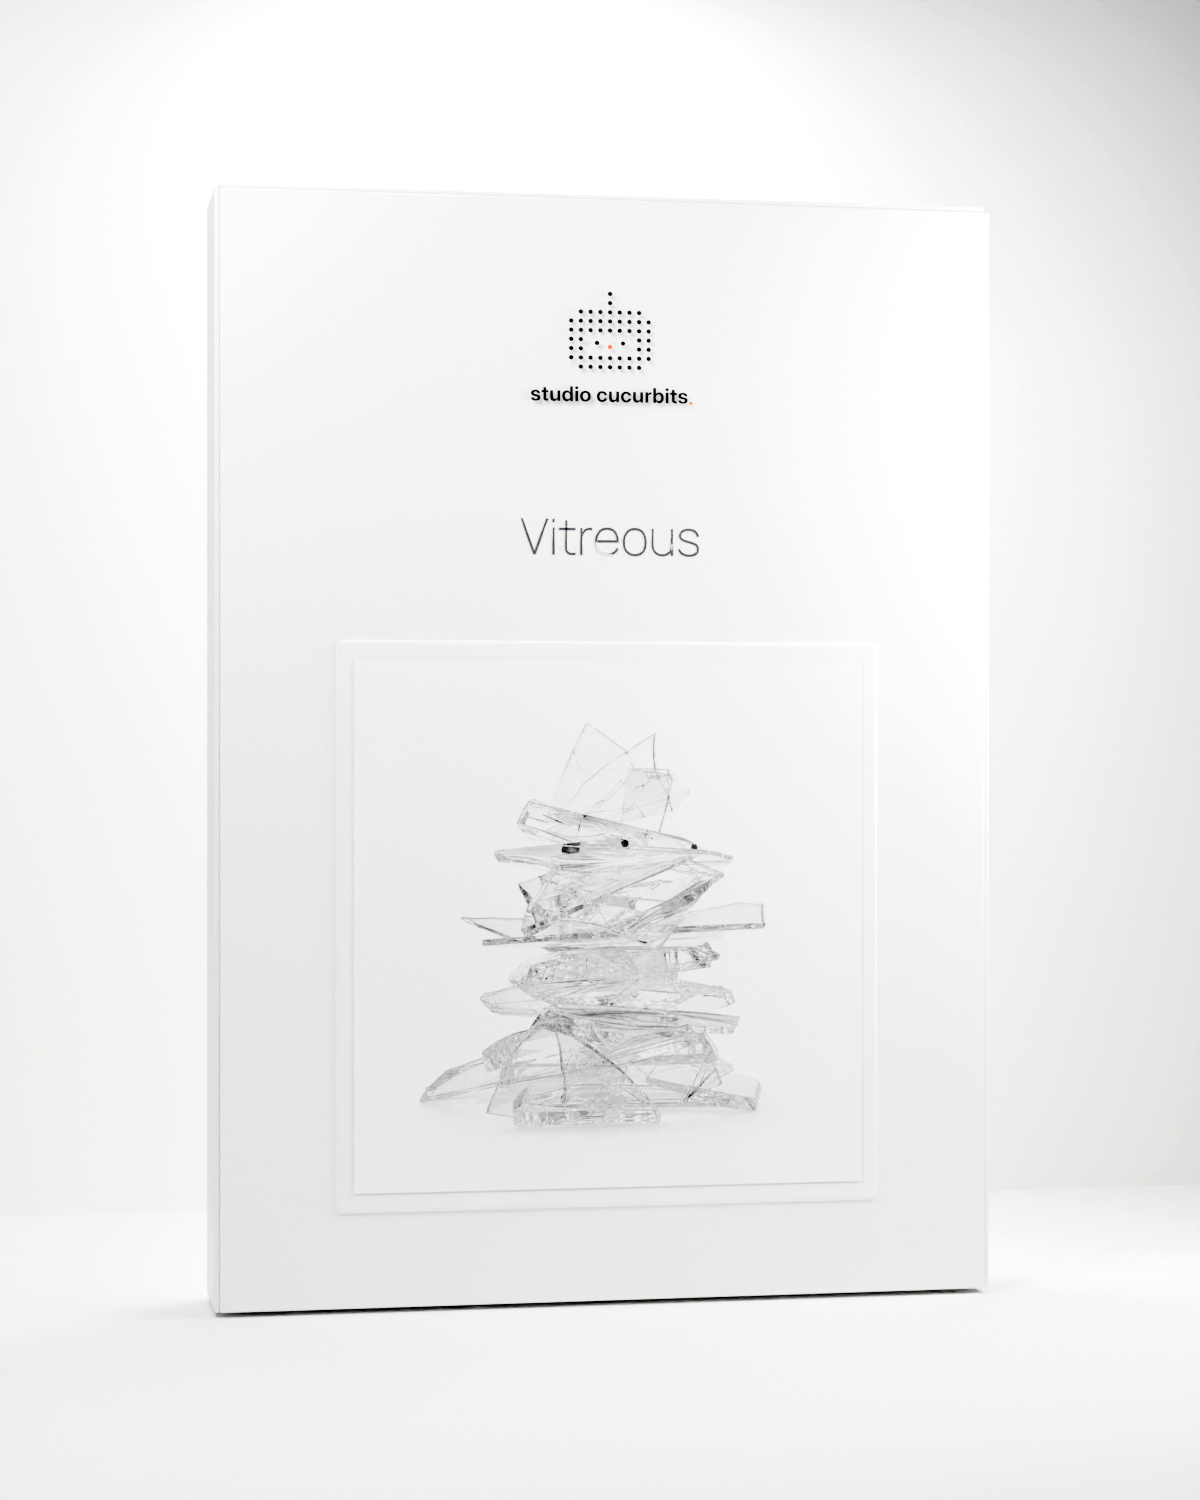
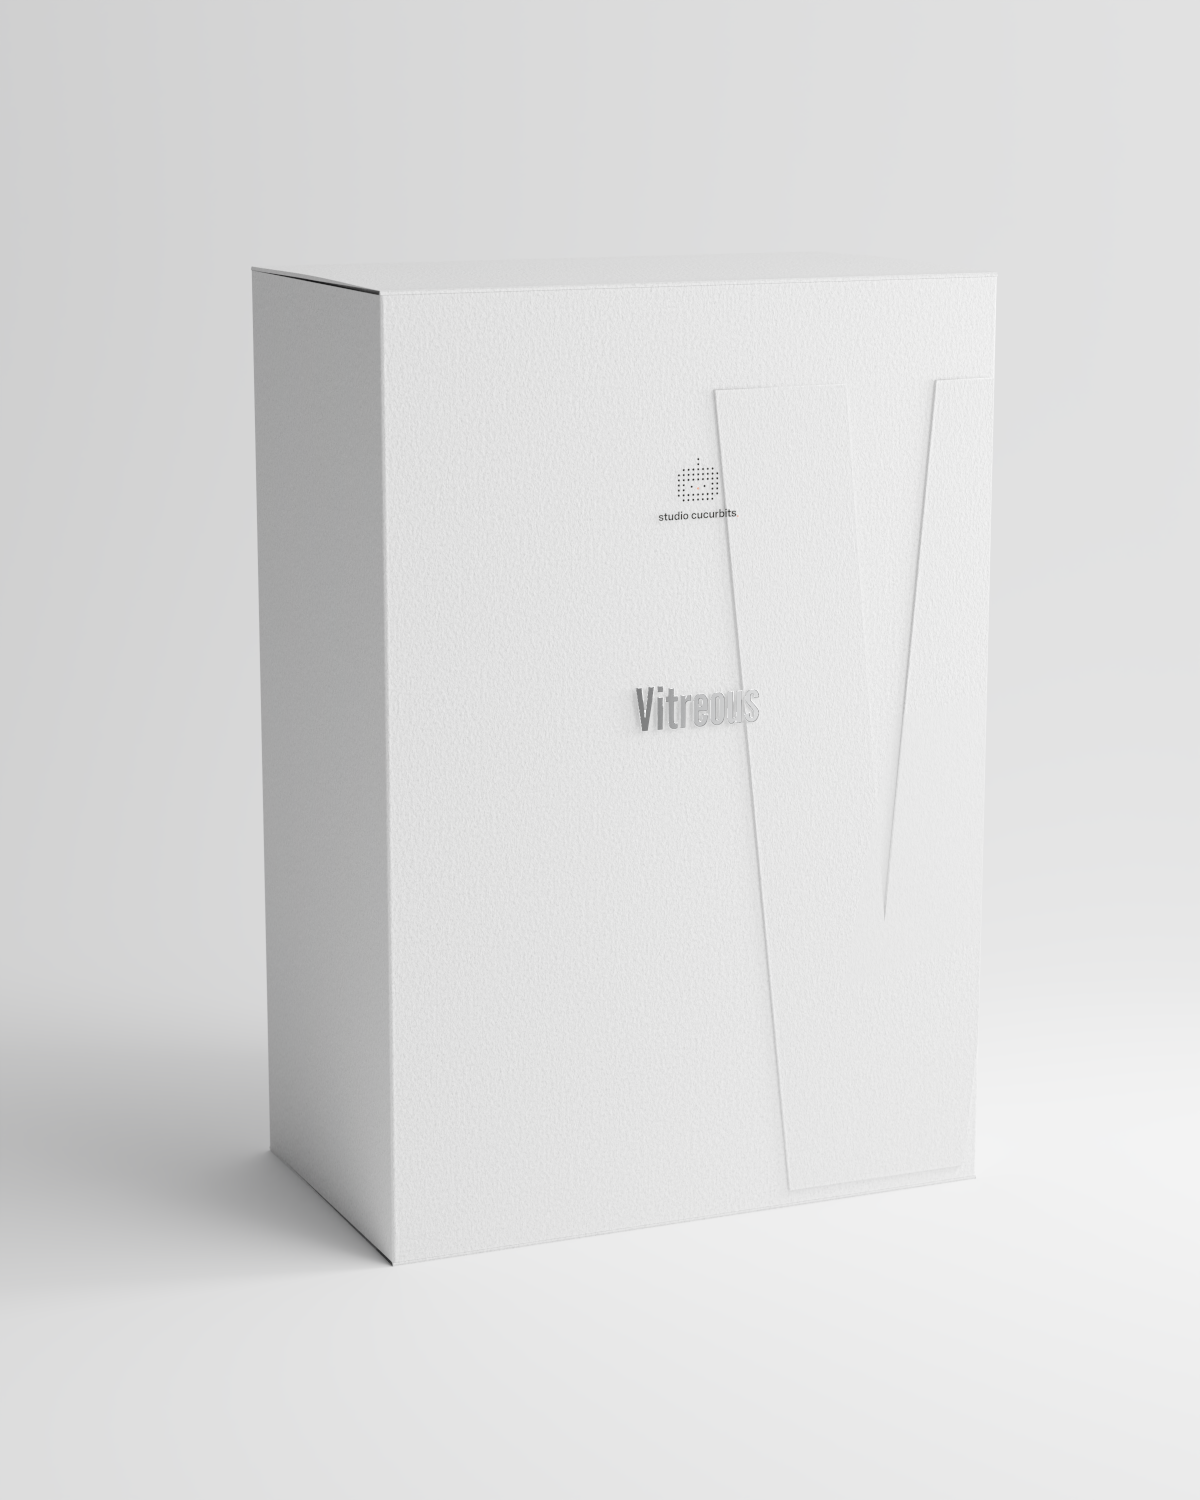
feat: new box mockups for every product and bundle
Refraction, Piano String, Gong, Flute, Clarinet, Trumpet, Violin, Vitreous and the Traces, Tendril
and Future Artist Collection bundles, rendered with the adopted procedural carton at the site's 4:5 frame.

diff --git a/src/data/site.ts b/src/data/site.ts
@@ -1,6 +1,6 @@
 // Mockups are replaced under the same file names; Cloudflare tells browsers to keep images for 4 h,
 // so bump this on every mockup deploy.
-export const MOCKUP_V = '?v=2026091320';
+export const MOCKUP_V = '?v=2026091321';
 
 export interface BusinessArea {
   slug: string;
